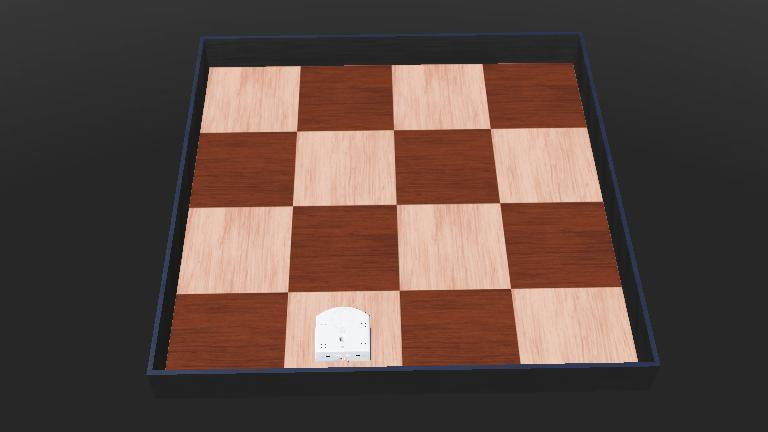
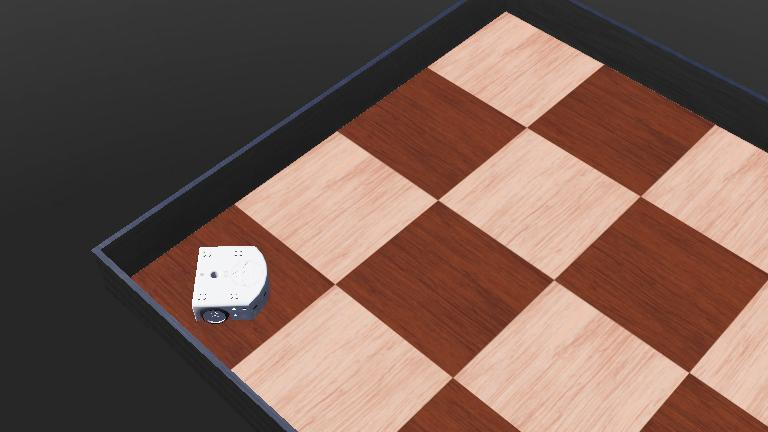
Corrections + plots

diff --git a/plots/plot_compass.py b/plots/plot_compass.py
@@ -1,0 +1,27 @@
+import csv
+import matplotlib.pyplot as plt
+
+time = []
+comp_x = []
+comp_y = []
+
+with open('data/compass_data.csv', 'r') as f:
+    reader = csv.reader(f)
+    next(reader)
+    for row in reader:
+        time.append(float(row[0])) # Zeit
+        comp_x.append(float(row[1])) # X-Wert
+        comp_y.append(float(row[2])) # Y-Wert
+
+plt.figure(figsize=(10, 5))
+plt.plot(time, comp_x, color='blue', linewidth=1.5, label='Kompass X-Achse')
+plt.plot(time, comp_y, color='red', linewidth=1.5, linestyle='--', label='Kompass Y-Achse')
+
+plt.title('Compass Sensor - Rotation auf der Stelle')
+plt.xlabel('Zeit (ms)')
+plt.ylabel('Magnetische Ausrichtung (Sensoreinheit)')
+plt.grid(True)
+plt.legend() # Legende anzeigen
+plt.tight_layout()
+plt.savefig('compass_plot.png')
+plt.show()

diff --git a/plots/plot_gps.py b/plots/plot_gps.py
@@ -1,0 +1,23 @@
+import csv
+import matplotlib.pyplot as plt
+
+gps_x = []
+gps_y = []
+
+with open('data/gps_data.csv', 'r') as f:
+    reader = csv.reader(f)
+    next(reader) # Kopfzeile überspringen
+    for row in reader:
+        # Index 1 ist X, Index 2 ist Y (Index 0 wäre die Zeit)
+        gps_x.append(float(row[1]))
+        gps_y.append(float(row[2]))
+
+plt.figure(figsize=(8, 8))
+plt.plot(gps_x, gps_y, color='green', linewidth=2)
+plt.title('GPS Sensor - Gefahrene Trajektorie (Kreisbahn)')
+plt.xlabel('Globale X-Koordinate (m)')
+plt.ylabel('Globale Y-Koordinate (m)')
+plt.grid(True)
+plt.tight_layout()
+plt.savefig('gps_plot.png')
+plt.show()

diff --git a/controllers/compass_controller/compass_controller.py b/controllers/compass_controller/compass_controller.py
@@ -21,8 +21,7 @@ right_motor.setVelocity(-3.0)
 # CSV Datei öffnen und beschreiben
 with open('compass_data.csv', 'w', newline='') as f:
     writer = csv.writer(f)
-    # Z-Achse und X-Achse bilden in Webots meist die horizontale Bodenebene
-    writer.writerow(['time', 'compass_x', 'compass_z'])
+    writer.writerow(['time', 'compass_x', 'compass_y'])
 
     while robot.step(timestep) != -1 and robot.getTime() < 10.0:
         current_time = robot.getTime()
@@ -30,10 +29,10 @@ with open('compass_data.csv', 'w', newline='') as f:
         # Kompass liefert [X, Y, Z]
         heading = compass.getValues()
         comp_x = heading[0]
-        comp_z = heading[2] 
+        comp_y = heading[1] 
         
         # Daten speichern
-        writer.writerow([current_time, comp_x, comp_z])
+        writer.writerow([current_time, comp_x, comp_y])
         
         # Ausgabe in der Konsole
-        print(f"Zeit: {current_time:.2f}s, X: {comp_x:.2f}, Z: {comp_z:.2f}")
+        print(f"Zeit: {current_time:.2f}s, X: {comp_x:.2f}, Y: {comp_y:.2f}")